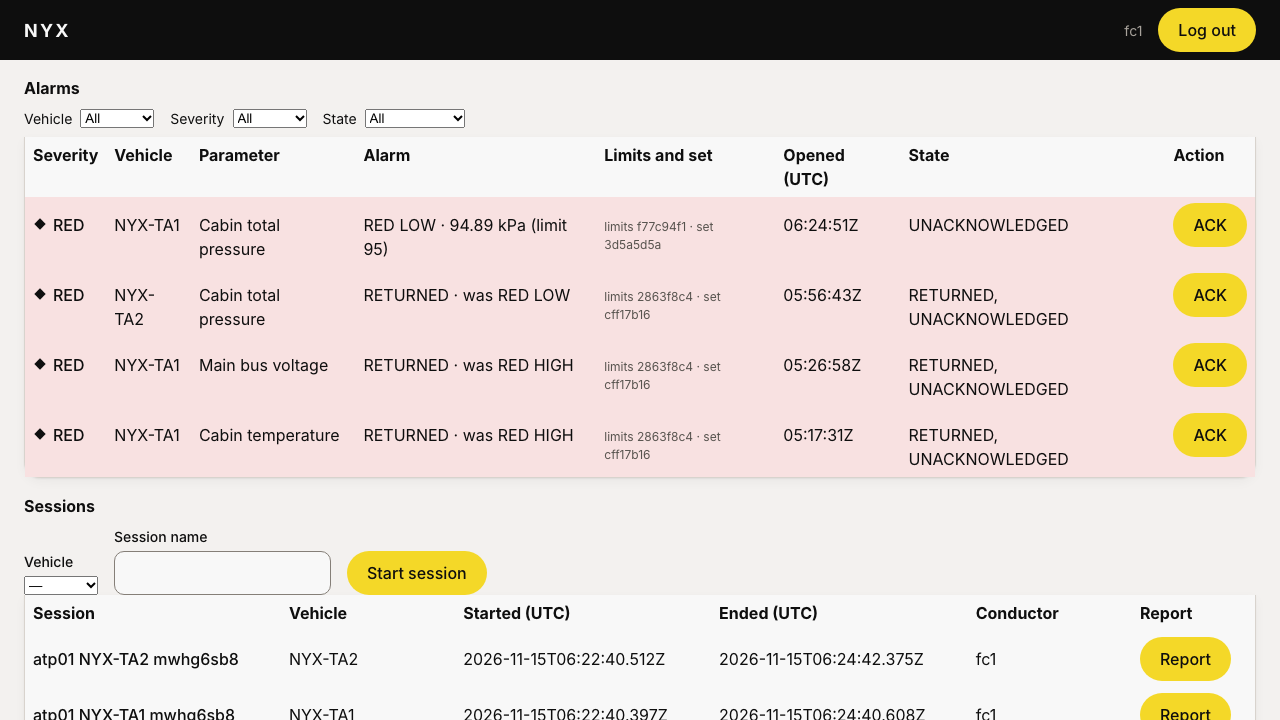
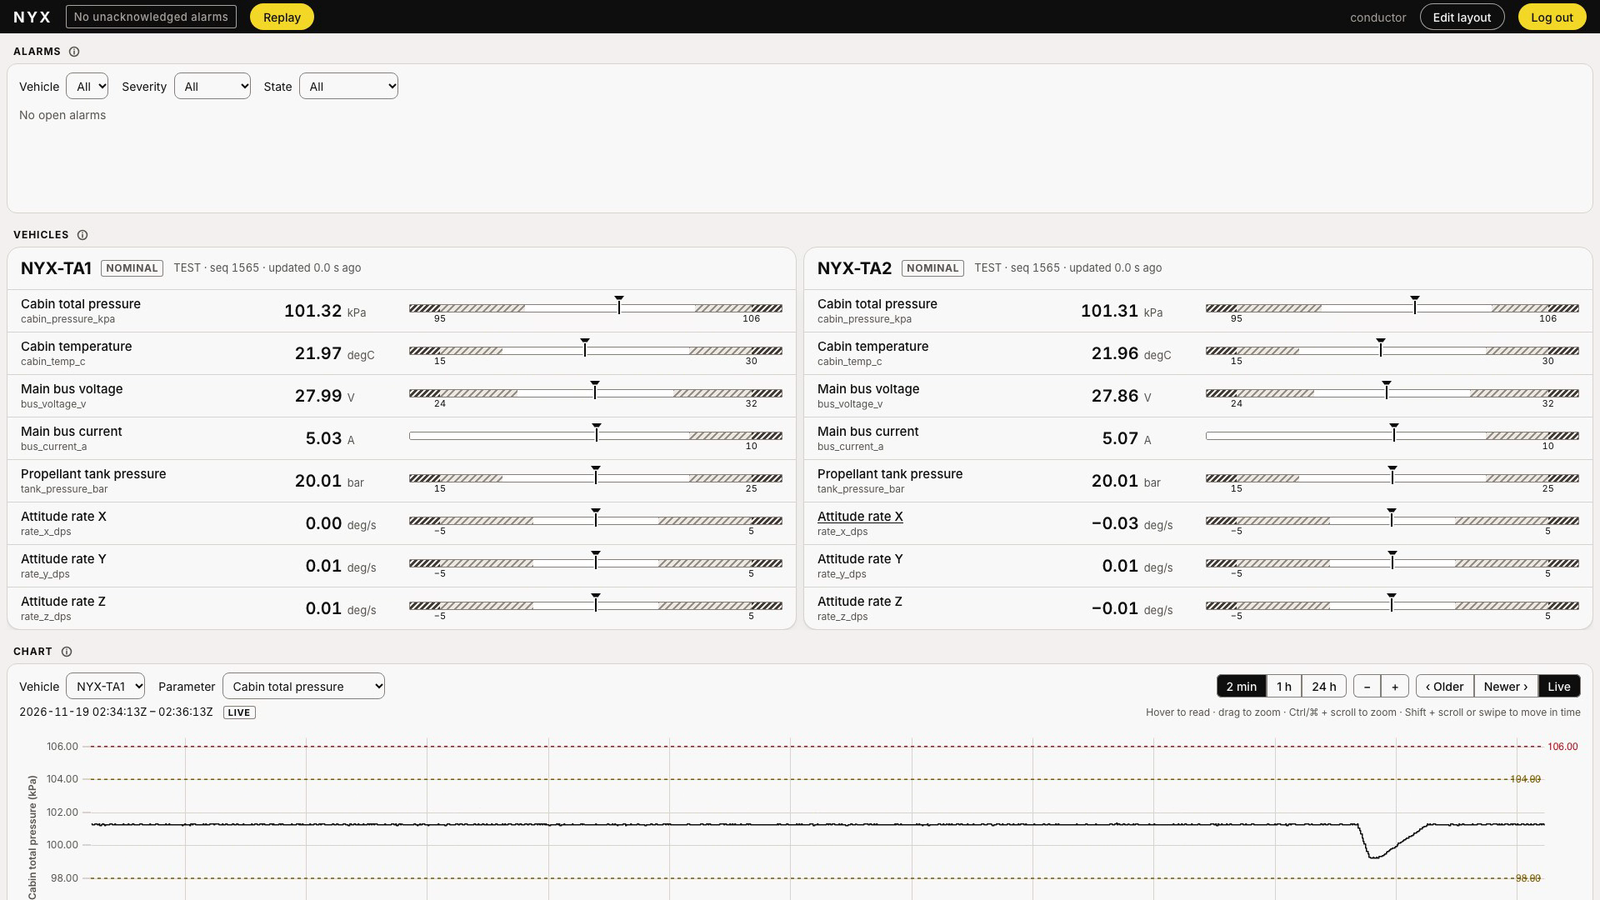
docs: a current console screenshot and a play button on the video thumbnail

diff --git a/README.md b/README.md
@@ -49,7 +49,7 @@ Status: v1.0.1. v1.0 was accepted at Gate 5 from a fresh clone: the [acceptance 
 
 The test articles are simulated and the project is not affiliated with any company. Every assumption about how a real team works is written down in [docs/assumptions.md](docs/assumptions.md).
 
-![The Nyx console](docs/img/console.png)
+![The Nyx console: no open alarms, both test articles NOMINAL with every value against its limit band, and the live chart of cabin pressure](docs/img/console.png)
 
 ## Run
 Needs only Docker and make.
